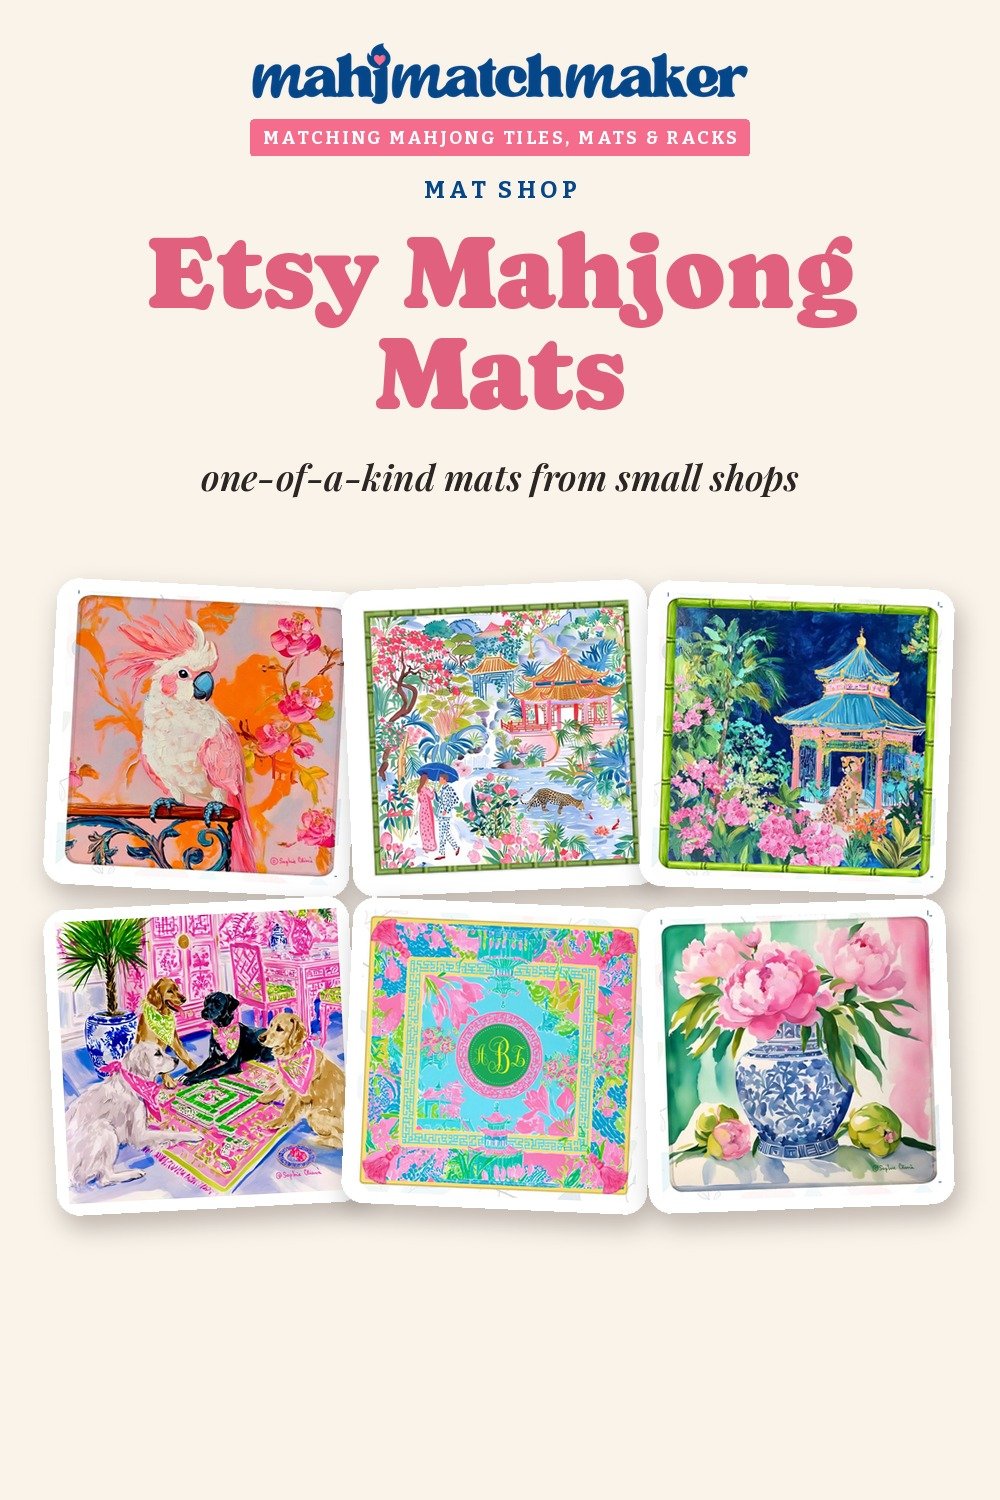
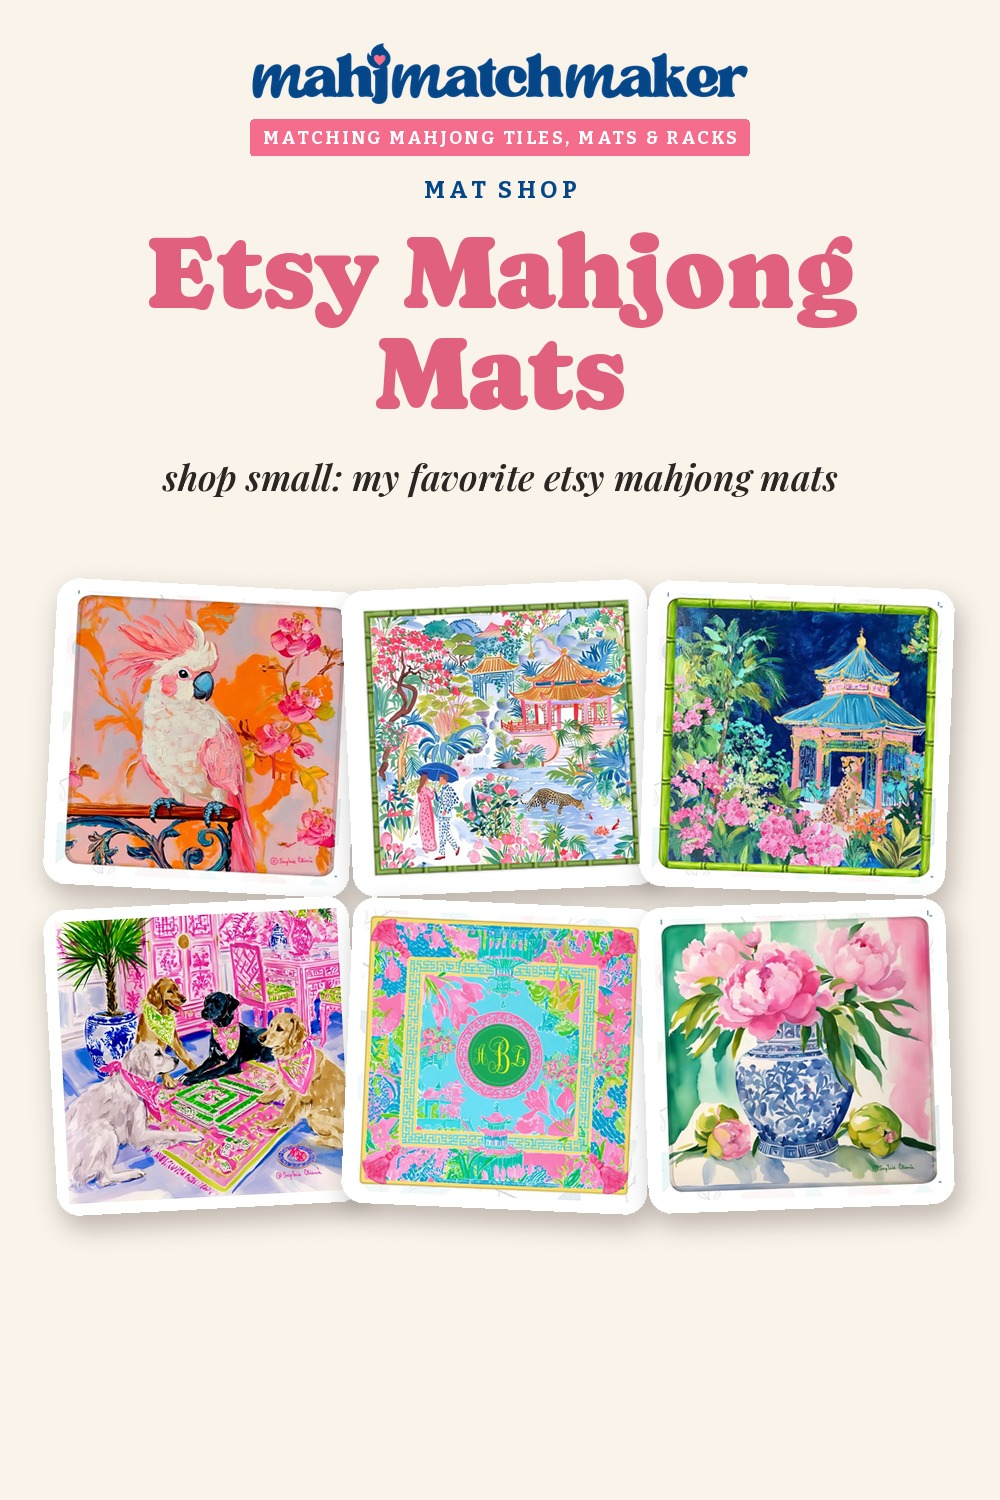
ShopMy Etsy Mats cover tagline: shop small, not one-of-a-kind
Claude-Session: https://claude.ai/code/session_01PiwamzEftkvrKP5d7A1QEB

Changed region(s): [[0.155, 0.3067, 0.837, 0.3373]]

diff --git a/scripts/shopmy/portrait_picks.py b/scripts/shopmy/portrait_picks.py
@@ -14,7 +14,7 @@ PICKS = {
  'the-mahjong-house': '27861 27725 27601 30241 29673 28852',
  'mahjong-storage': '14131 29865 30044 04470 04465 04455',
  'merry-mahjong': '16077 26001 32169 32833 16391 20906',
- 'mahjong-gifts': '13699 49857 17133 21234 20708 20563'   # Oct 25 10:07pm: one pillow (Housework Never), sweatshirt, pink tote, Hotel Lobby matchbox duo, BAMS CLUB candle, Origami Owl tile necklace,
+ 'mahjong-gifts': '13699 49857 17133 21234 20708 20563',   # Oct 25 10:07pm: one pillow (Housework Never), sweatshirt, pink tote, Hotel Lobby matchbox duo, BAMS CLUB candle, Origami Owl tile necklace,
  'bam-lets-mahjong': '94546 94603 94625 59321 94505 94516',   # mats on top, matching tile sets below (59321/94505/94516 = BAM's own site photos)
  'betty-june-jeannette': '26037 26853 26603 25859 15115 14757',
  'halloween-mahjong-table': '37389 38653 37516 37993 39262 37822',

diff --git a/scripts/shopmy/make_covers.py b/scripts/shopmy/make_covers.py
@@ -79,7 +79,7 @@ COVERS = [
   [96203680, 96196661, 96195144, 96207171, 96203770]),
  (8398138, 'mahjong-lamps', 'Mahjong Lamps', 'cordless lamps for a cozy game night', 'table shop', '#c4932b', 5,
   [96222800, 96222662, 96193399, 96228999, 96232922]),
- (8392222, 'etsy-mahjong-mats', 'Etsy Mahjong Mats', 'one-of-a-kind mats from small shops', 'mat shop', '#e0607e', 5,
+ (8392222, 'etsy-mahjong-mats', 'Etsy Mahjong Mats', 'shop small: my favorite etsy mahjong mats', 'mat shop', '#e0607e', 5,
   [96122627, 96131839, 96131764, 96131413, 96131171]),
  (8399101, 'racks', 'Mahjong Racks', 'racks and pushers for every set', 'rack shop', '#054689', 3,
   [96217240, 96217176, 96217490]),

diff --git a/docs/ANSWERS.md b/docs/ANSWERS.md
@@ -199,3 +199,4 @@ Format: `- YYYY-MM-DD HH:MM · chat · topic · her answer in her words (short) 
 - Oct 25 ~10:05pm (Matches & Catalog, finding, not her answer): Mahjong by SI's 6 FYM mats were never Mahjong Co. mats; all 6 are live on www.mahjongbysi.com under the same handles (our links pointed at dead mahjongco.com URLs). Asked her: keep + relink to mahjongbysi.com (non-partner, no commission) or take out. Earlier 'sold via Mahjong Co.' answer was wrong.
 - 2026-10-25 ~10:20pm · Main · Partner graphics round 3 shown: 3 layouts for Mahjong Row & Co. (A 3-card fan, B phone swipe → match card, C phone in front of 2 cards); cards built by assets/social/partner-kit/gen.js (FYM colour ranking, brand filter, 3 different tile sets/mats/2 racks each, code bar replaced by "Swipe for your own match"); full brand names; phones only. Claude recommends B as the story. Waiting on her pick before building all ~40.
 - Oct 25 10:07pm: Mahjong Gifts cover DECIDED + live: Housework Never pillow, Life is Better with Mahjong Friends sweatshirt, pink Case-Mate set, Hotel Lobby matchbox duo, BAMS CLUB candle, Origami Owl tile necklace (other two pillows + Rebecca matches out).
+- Oct 25 10:08pm: Etsy Mahjong Mats cover wording DECIDED: never 'one-of-a-kind' (not all are); use 'shop small' language: 'shop small: my favorite etsy mahjong mats'. Live.
